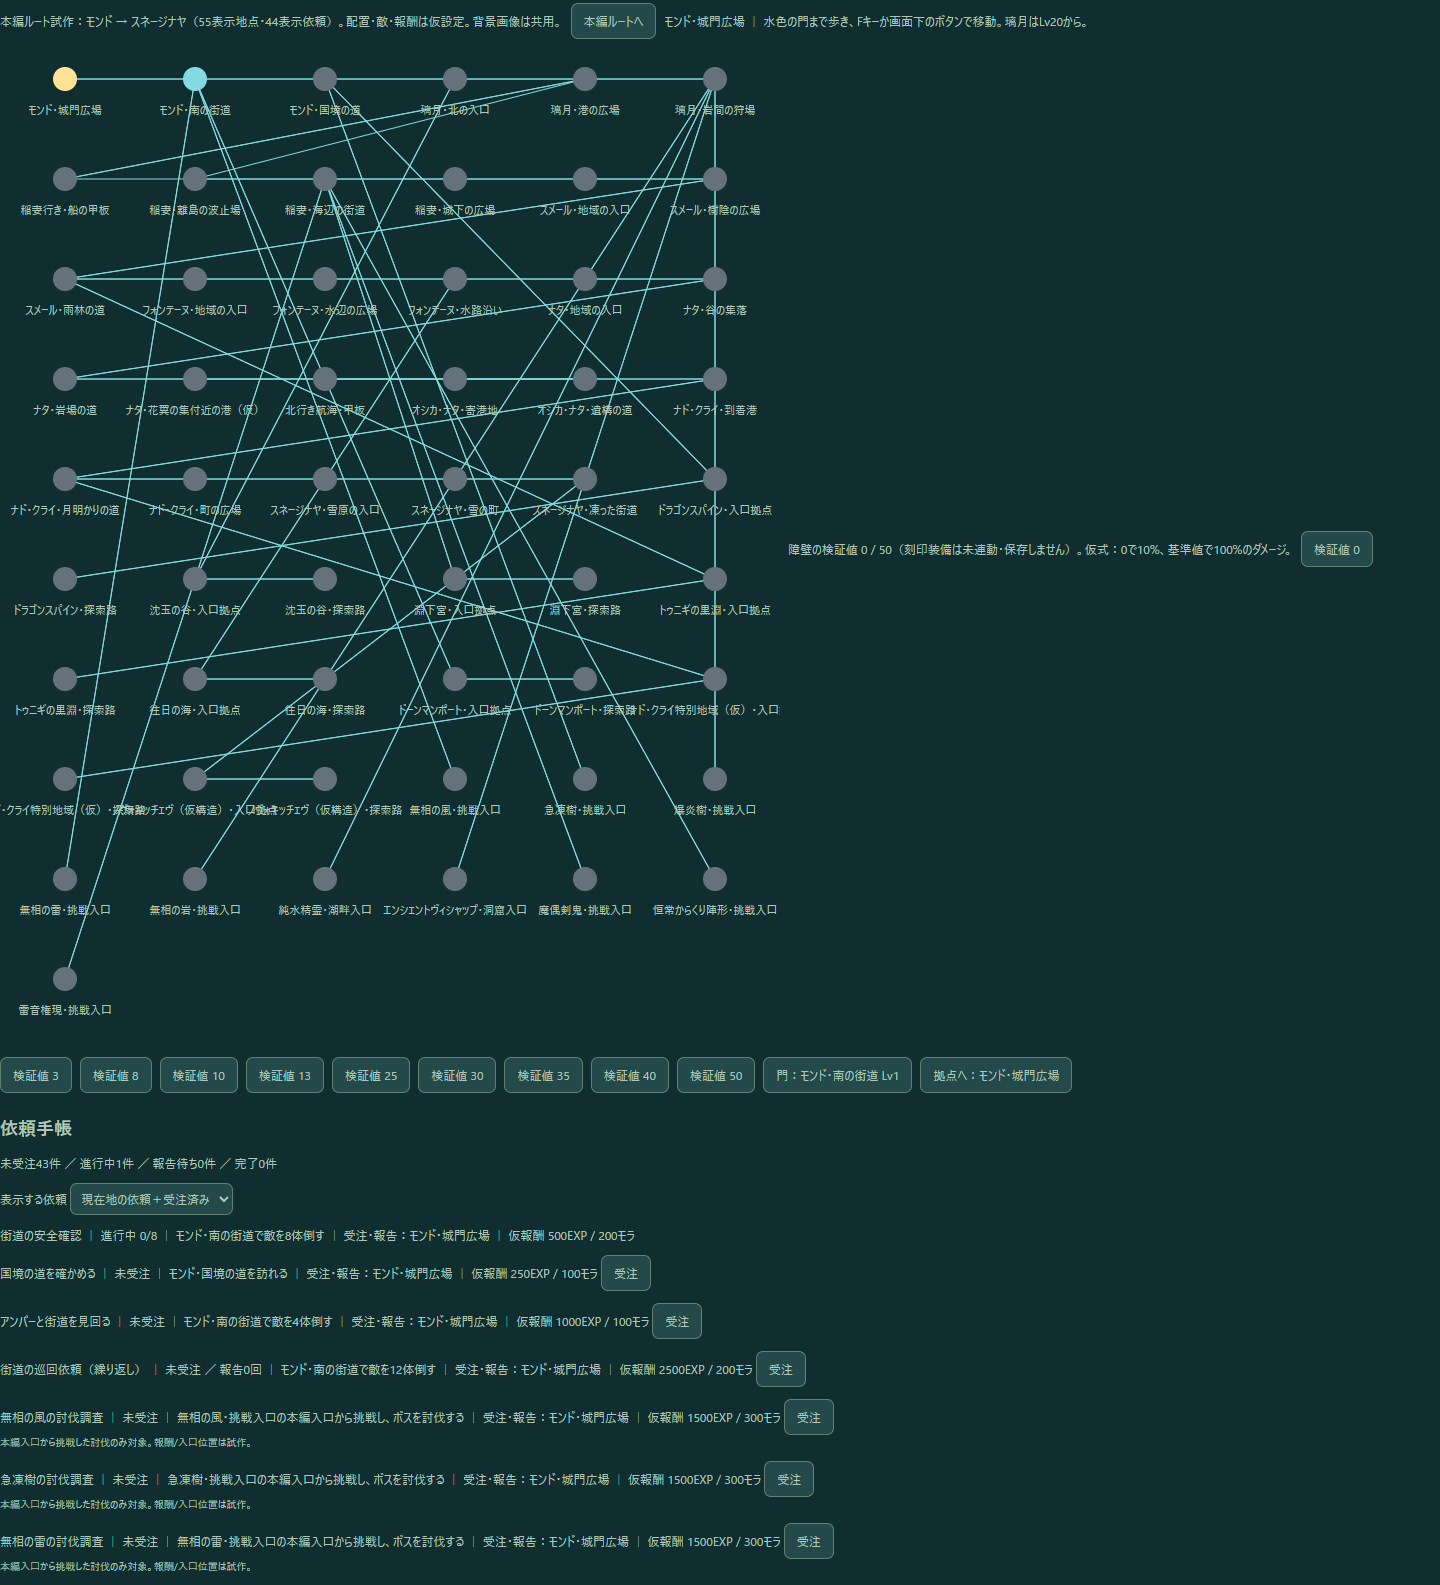
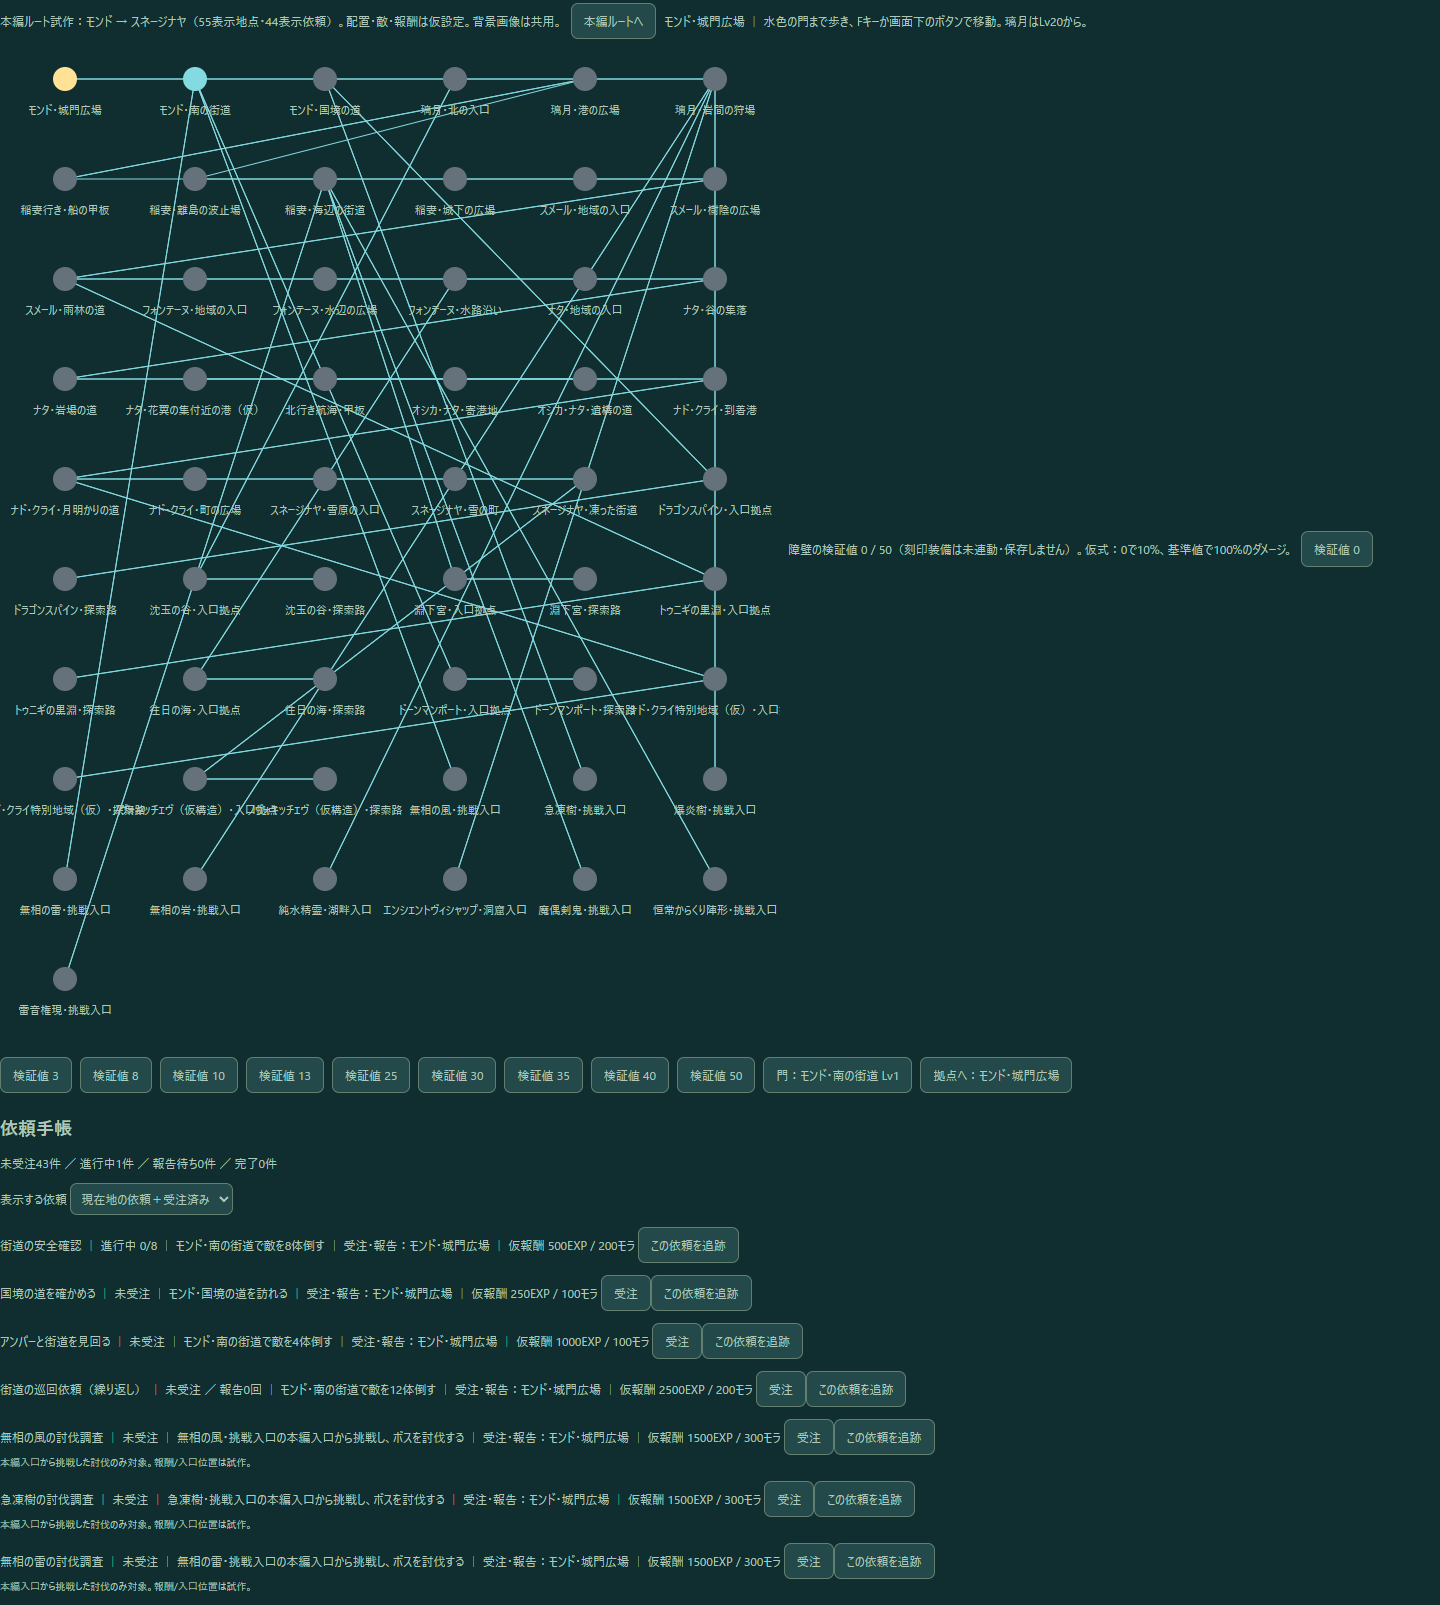
Track a selected quest beside the playfield with resumable browser preference

diff --git a/index.html b/index.html
@@ -5,6 +5,7 @@
 <main><header><div><div class="eyebrow">TEYVAT · 2D ADVENTURE LAB</div><h1>風の狩場</h1><p>3D背景を想定した画像と、Luaで動く2Dの旅人・アンバー。</p></div><span class="badge">Lua 5.3 / ローカル試作 A</span></header>
 <div class="game"><canvas id="game" width="960" height="540" aria-label="横スクロールのLua試作狩場"></canvas><div class="topline"><div class="card" id="a1"></div><div class="card" id="a2"></div></div><div class="location">モンド風・試験用狩場　/　3画面・2段足場</div>
 <div id="nearbyPortal" hidden style="padding:10px 18px;background:#173a3b"><span id="nearbyPortalText"></span> <button id="nearbyPortalGo" data-action="story_nearby_portal">F：この門を通る</button></div>
+<div id="trackedQuest" hidden style="padding:10px 18px;background:#173a3b;overflow-wrap:anywhere"><span id="trackedQuestText"></span> <button id="clearTrackedQuest">追跡を解除</button></div>
 <div class="bottom"><div class="gauge">光界・共通ゲージ <span id="gaugeText">60 / 100</span><div class="bar"><i id="gaugeBar"></i></div><small>光界は検証用に解放</small></div><div class="skills"><button class="skill" data-action="normal"><kbd>J</kbd><span>通常攻撃</span><em id="cd-normal"></em></button><button class="skill" data-action="skill1"><kbd>K</kbd><span id="name1">旋風斬り</span><em id="cd-skill1"></em></button><button class="skill" data-action="skill2"><kbd>L</kbd><span id="name2">竜巻</span><em id="cd-skill2"></em></button><button class="skill" data-action="light"><kbd>Q</kbd><span>光界解放</span><em id="cd-light"></em></button><button class="skill" data-action="swap"><kbd>E</kbd><span>操作交代</span></button><button class="skill" data-action="dodge"><kbd>SHIFT</kbd><span>回避</span></button></div></div></div>
 <div class="controls"><button class="skill" data-amber data-action="skill3"><kbd>M</kbd><span>ウサギ伯爵</span><em id="cd-skill3"></em></button><button class="skill" data-amber data-action="skill4"><kbd>N</kbd><span>跳躍射撃</span><em id="cd-skill4"></em></button><span>仲間操作中に使用。追加仲間の外見は仮図形です。</span></div><div class="touch"><button data-hold="left">←</button><button data-hold="right">→</button><button data-action="jump">ジャンプ</button><button data-hold="attack">攻撃</button></div>
 <div class="controls"><a href="bosses-art.html">ボス素材の比較 →</a><a href="compare.html">ドット絵の軽量化を左右で比較 →</a><span>移動 A D / ← →　ジャンプ Space　降下 S＋Space</span><button id="auto" data-action="auto">自動戦闘 OFF</button><button id="pause" data-action="pause">一時停止</button><button id="reset">最初から</button><label>密度 <select id="density"><option>12</option><option selected>16</option><option>20</option><option>40</option></select></label><label>描画 <select id="renderMode"><option value="sprite">PNG見本</option><option value="rect">矩形変換</option></select></label><button id="export">計測を保存</button></div>

diff --git a/story-ui.js b/story-ui.js
@@ -1,10 +1,15 @@
-import {renderQuestJournal} from './quest-journal.js';
-let questFilter='relevant';
+import {renderQuestJournal,trackedQuestText} from './quest-journal.js';
+let questFilter='relevant',trackedId=null;
+const trackingKey='maple-lua-lab-tracked-quest';
+try{trackedId=localStorage.getItem(trackingKey)}catch{}
+function trackQuest(id){trackedId=id;try{if(id)localStorage.setItem(trackingKey,id);else localStorage.removeItem(trackingKey)}catch{}previous='';update()}
+document.getElementById('clearTrackedQuest').onclick=()=>trackQuest(null);
 const panel=document.getElementById('storyPanel');let previous='';
 function button(label,action){const b=document.createElement('button');b.textContent=label;b.onclick=()=>{window.lab.action(action);b.blur()};return b}
 function update(){
  const f=window.lab?.frame;if(!f?.story)return;
  const signature=JSON.stringify([f.story,f.bossJourney,f.storyNotice,f.imprintTrial,f.progression?.level,Math.ceil(f.voyage?.seconds||0)]);if(signature===previous)return;previous=signature;
+ const tracked=document.getElementById('trackedQuest'),text=trackedQuestText(f,trackedId);tracked.hidden=!text;document.getElementById('trackedQuestText').textContent=text;
  panel.replaceChildren();const title=document.createElement('p');title.textContent=`本編ルート試作：モンド → スネージナヤ（${f.storyGraph.nodes.length}表示地点・${f.storyGraph.quests.length}表示依頼）。配置・敵・報酬は仮設定。背景画像は共用。`;panel.append(title,button('本編ルートへ','story_start'));
  if(f.bossJourney){const notice=document.createElement('p');notice.textContent=f.bossJourney.name+'・本編挑戦'+(f.bossJourney.defeated?'／討伐済み':'');panel.append(notice,button('挑戦入口へ戻る','world_boss_return'));}
  if(!f.story.active)return;
@@ -25,6 +30,6 @@ function update(){
  for(const h of node.hints||[])panel.append(button('調べる：'+h.label,'story_discover:'+h.group));
  for(const e of node.exits){const n=graph.nodes.find(n=>n.id===e.to);const b=button('門：'+n.name+' Lv'+n.level,'story_portal:'+n.id);if(e.windowStart){b.disabled=!f.voyage?.stopover;b.title='出航30〜50秒の寄港中に下船できます。'}if(e.requiresArrival)b.disabled=!!f.voyage;panel.append(b)}
  for(const n of graph.nodes.filter(n=>n.hub&&f.story.visited[n.id]))panel.append(button('拠点へ：'+n.name,'story_fast:'+n.id));
- panel.append(renderQuestJournal(f,{filter:questFilter,button,onFilter:value=>{questFilter=value;previous='';update()}}));
+ panel.append(renderQuestJournal(f,{filter:questFilter,button,trackedId,onTrack:trackQuest,onFilter:value=>{questFilter=value;previous='';update()}}));
 }
 setInterval(update,200);

diff --git a/quest-journal.js b/quest-journal.js
@@ -9,7 +9,14 @@ export function questObjective(q,graph){
  const place=destination?.name||'目的地未登録';
  return q.kind==='visit'?`${place}を訪れる`:q.kind==='kill'?`${place}で敵を${q.goal}体倒す`:`${place}の本編入口から挑戦し、ボスを討伐する`;
 }
-export function renderQuestJournal(f,{filter,onFilter,button}){
+export function trackedQuestText(f,id){
+ if(!f.story?.active)return '';
+ const q=f.storyGraph.quests.find(q=>q.id===id);if(!q)return '';
+ const st=f.story.quests[q.id],status=questStatus(q,st),hub=f.storyGraph.nodes.find(n=>n.id===q.hub)?.name||q.hub;
+ const next=status==='unaccepted'?`${hub}で受注してください`:status==='ready'?`${hub}へ戻って報告してください`:status==='complete'?(q.repeatable?`${hub}で再受注できます`:'報酬受取済み'):questObjective(q,f.storyGraph);
+ return `${q.name} ｜ ${labels[status]}${st?` ${st.count}/${q.goal}`:''} ｜ ${next}`;
+}
+export function renderQuestJournal(f,{filter,onFilter,button,trackedId,onTrack}){
  const {story,storyGraph:graph}=f,section=document.createElement('section');section.id='questJournal';section.style.width='100%';
  const heading=document.createElement('h2');heading.textContent='依頼手帳';section.append(heading);
  const counts={unaccepted:0,active:0,ready:0,complete:0};for(const q of graph.quests)counts[questStatus(q,story.quests[q.id])]++;
@@ -25,6 +32,7 @@ export function renderQuestJournal(f,{filter,onFilter,button}){
   row.textContent=`${q.name} ｜ ${labels[status]}${st?` ${st.count}/${q.goal}`:''}${q.repeatable?` ／ 報告${st?.cycles||0}回`:''}${q.join&&status==='complete'?'（加入済み／初期装備は未実装）':''} ｜ ${questObjective(q,graph)} ｜ 受注・報告：${hub} ｜ 仮報酬 ${q.xp}EXP / ${q.mora}モラ `;
   if(status==='unaccepted'||(status==='complete'&&q.repeatable)){const b=button('受注','story_accept:'+q.id);b.disabled=q.hub!==story.node;b.title=b.disabled?`${hub}で受注してください`:'';row.append(b)}
   if(status==='ready'){const b=button('報告','story_report:'+q.id);b.disabled=q.hub!==story.node;b.title=b.disabled?`${hub}へ戻って報告してください`:'';row.append(b)}
+  if(onTrack){const b=document.createElement('button');b.textContent=trackedId===q.id?'追跡を解除':'この依頼を追跡';b.setAttribute('aria-pressed',String(trackedId===q.id));b.onclick=()=>onTrack(trackedId===q.id?null:q.id);row.append(b)}
   if(q.note){const note=document.createElement('small');note.style.display='block';note.textContent=q.note;row.append(note)}
   section.append(row);
  }

diff --git a/CHAT_HANDOFF.md b/CHAT_HANDOFF.md
@@ -273,3 +273,6 @@ map-art.html追加: 本編61仮地点の足場/背景を選択し、元PNGと軽
 
 
 2026-11-17: 兆載永劫ドレイク待機v2追加。HoYoWiki2857の全身/ゲーム内地上空中/初期案/最終正側背面設計図を直接確認、全身2と最終設計図6を生成へ使用。v1に独立した腕が追加されたため設計図付き画像編集で除去、両原本保持。3Dモデル未確認。180/135/90px=8195/5179/2271矩形（最軽量72.29%減）。19ボス20候補の3設定3倍率左右/画像切れ/縦横比/390px、全20配置/読戻/削除undo検査通過。単体とスメール仮背景を目視、翼2組/橙色/尾輪は残り装甲細部は弱い。原作より直立した候補で姿勢厳密再現は未完。技/本編配置/飛行アニメは未実装、encounterのnot_implemented維持。根拠 evidence/aeonblight-reference-audit.json, evidence/aeonblight-map-comparison.png。
+
+
+2026-11-17: 依頼追跡を追加。手帳から1件選び画面下へ名前/状態/進捗/次の行動を表示。未受注は受注拠点、報告待ちは報告先、完了は受取済みまたは再受注案内。ブラウザlocalStorageに選択IDを保存し、ゲーム再開時に現在の公開クエスト情報で表示。追跡解除・未発見/不明ID非表示・一覧絞込との独立を検査。実Lua受注/保存再開、状態fixture、390px検査通過。既存通しテストは8769の12セッション上限でHTTP400となり、既存セッションを維持したまま検査用8771サーバーへAPIだけ転送して受注/門移動/保存再開を確認。検査用サーバー終了。上限に達した既存サーバーのセッション解放は未対応、次の共通システム課題。技/報酬/クエスト条件変更なし。根拠 evidence/quest-tracking-test.json, evidence/quest-tracking.png。
